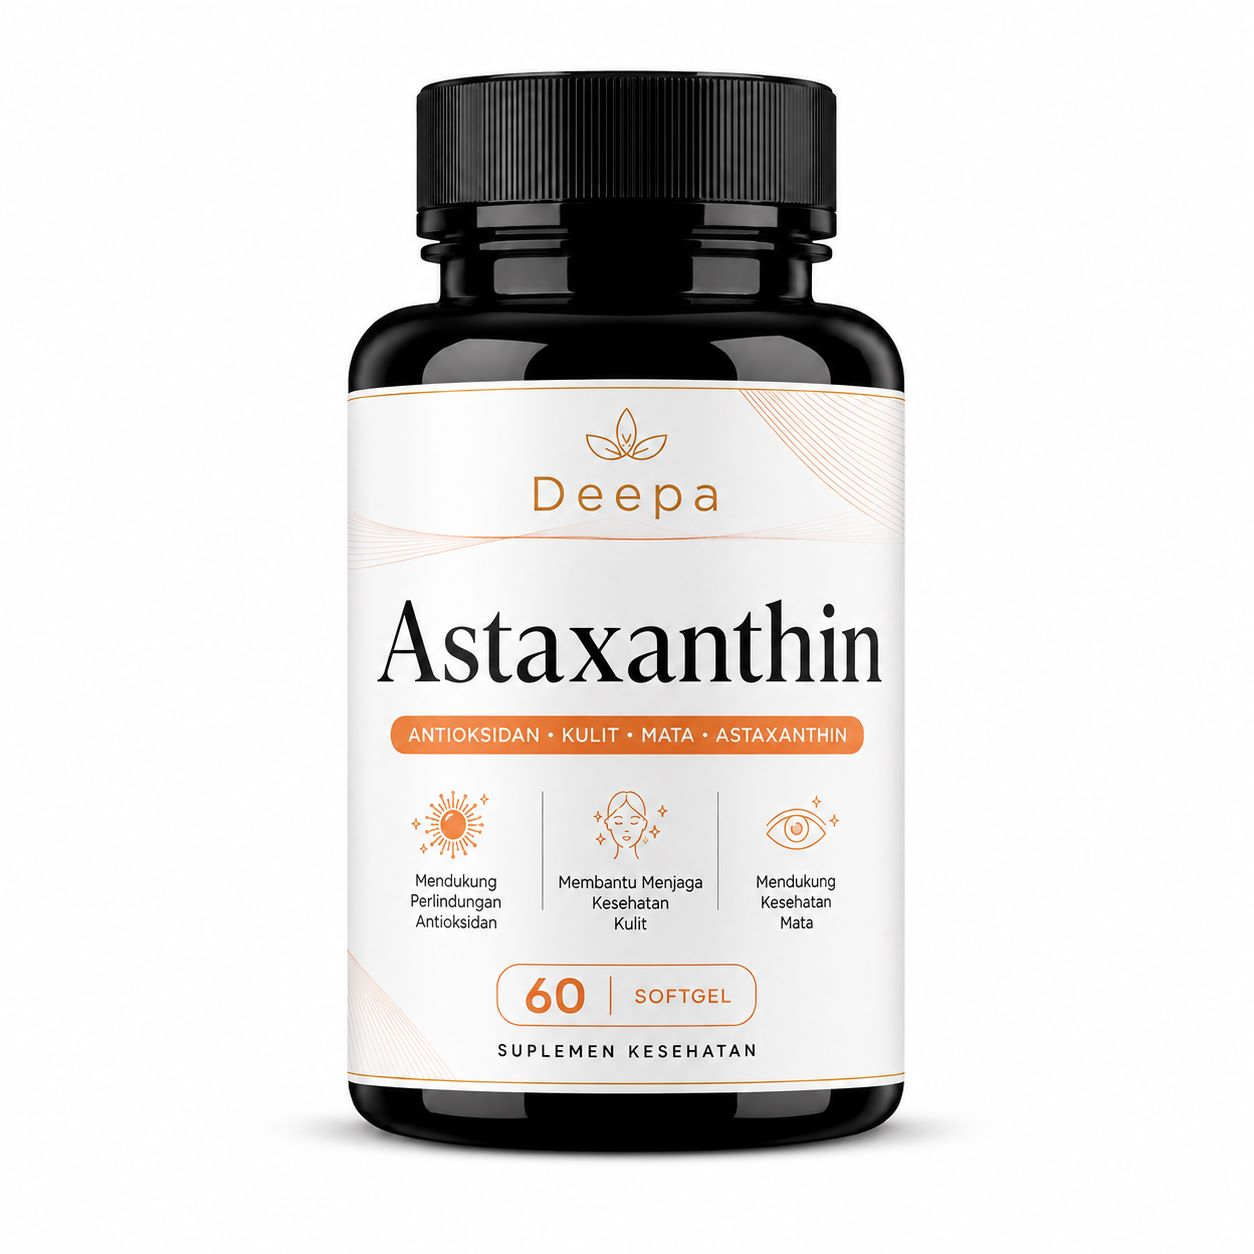
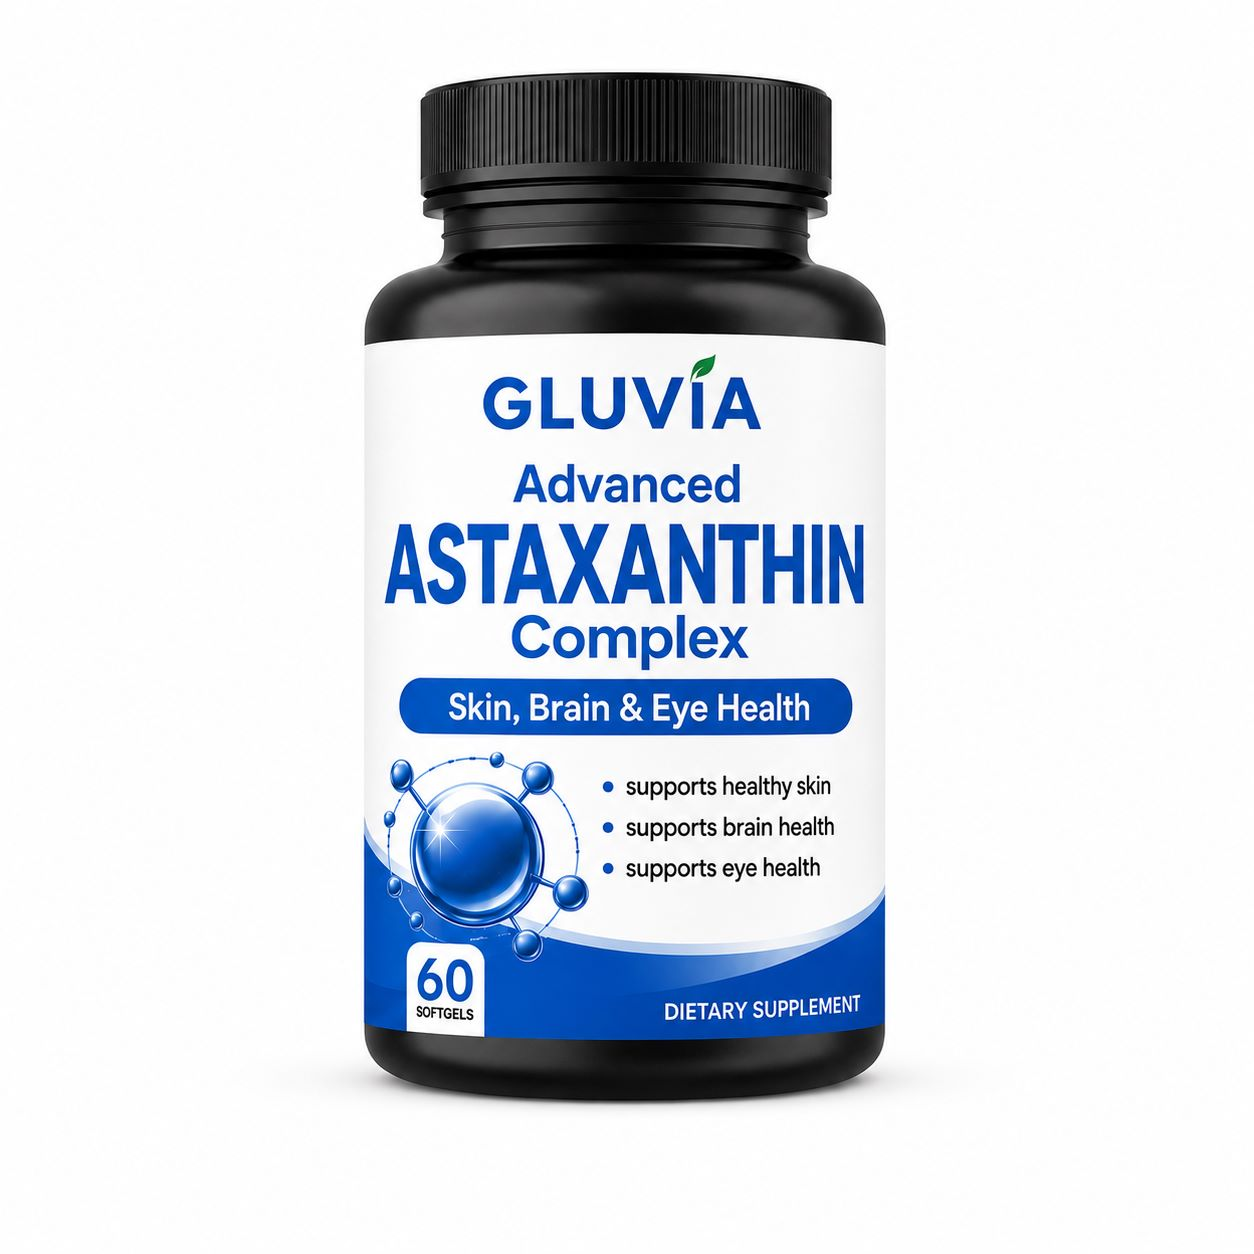
Add files via upload

Changed region(s): [[0.2488, 0.0311, 0.7464, 0.933]]

diff --git a/FD56233256.html b/FD56233256.html
@@ -181,7 +181,7 @@
                 </tr>
                 <tr>
                     <td>Brand</td>
-                    <td>Deepa</td>
+                    <td>GLUVIA</td>
                 </tr>
                 <tr>
                     <td>Product packaging</td>
